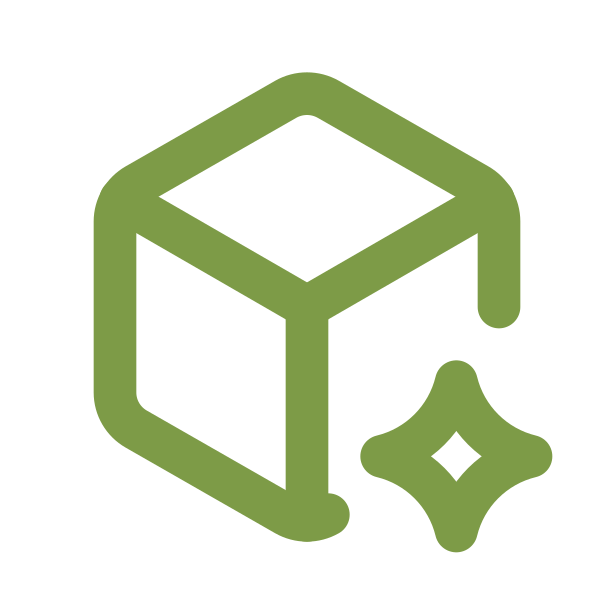
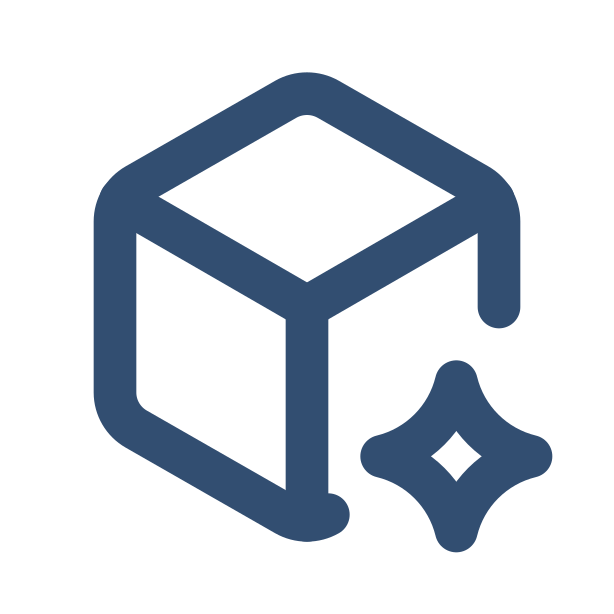
sync@20260403.1717

Changed region(s): [[0.1238, 0.0928, 0.8664, 0.8974], [0.5879, 0.5879, 0.8974, 0.8974]]

diff --git a/src/theme/customTheme.ts b/src/theme/customTheme.ts
@@ -94,7 +94,7 @@ const customs: Record<string, CustomThemeConfig> = {
           color: '#D9D9D9',
           active: {
             color: '#ffffff',
-            background: '#7d9b47',
+            background: '#324e71',
           },
           border: backgroundColors.green, // deep brown-gray border
           background: backgroundColors.green, // menu background dark brown
@@ -263,7 +263,7 @@ const customs: Record<string, CustomThemeConfig> = {
       '#5f91c6', // [5]
       '#4a76a9', // [6]
       '#3e618c', // [7]
-      '#7d9b47', // [8]
+      '#324e71', // [8]
       '#273c59', // [9] darkest
     ],
     default: {
@@ -291,14 +291,7 @@ const customs: Record<string, CustomThemeConfig> = {
   },
 }
 
-// const nktu = customs.brown;
-// const nktu = customs.green;
-// const nktu = customs.cyan;
-// const nktu = customs.blue;
-// const nktu = customs.red;
-
 const nktu = customs.green;
-
 
 export const themeConfig: Record<string, CustomThemeConfig> = {
   // cspell:words nktu
@@ -385,7 +378,7 @@ export const themeConfig: Record<string, CustomThemeConfig> = {
       '#5f91c6', // [5]
       '#4a76a9', // [6]
       '#3e618c', // [7]
-      '#7d9b47', // [8]
+      '#324e71', // [8]
       '#273c59', // [9] darkest
     ],
     default: {

diff --git a/index.html b/index.html
@@ -42,7 +42,7 @@
     <link rel="apple-touch-icon" sizes="180x180" href="/apple-touch-icon.png" />
 
     <!-- Safari Pinned Tab -->
-    <link rel="mask-icon" href="/mask-icon.svg" color="#7d9b47" />
+    <link rel="mask-icon" href="/mask-icon.svg" color="#324e71" />
 
     <!-- iOS Splash Screens -->
     <!-- iPhone 14 Pro Max, 15 Plus, 15 Pro Max -->
@@ -110,7 +110,7 @@
     <link rel="manifest" href="/manifest.json" />
 
     <!-- PWA Meta Tags -->
-    <meta name="theme-color" content="#7d9b47" />
+    <meta name="theme-color" content="#324e71" />
     <meta name="apple-mobile-web-app-capable" content="yes" />
     <meta name="apple-mobile-web-app-status-bar-style" content="default" />
     <meta name="apple-mobile-web-app-title" content="CMngt" />

diff --git a/scripts/generate-theme-assets.js b/scripts/generate-theme-assets.js
@@ -21,7 +21,7 @@ dotenv.config({ path: join(rootDir, '.env.local') });
 dotenv.config({ path: join(rootDir, '.env') });
 
 // Get theme color from environment or use default
-const THEME_COLOR_HEX = process.env.VITE_APP_THEME_COLOR || '7d9b47';
+const THEME_COLOR_HEX = process.env.VITE_APP_THEME_COLOR || '324e71';
 const THEME_COLOR = `#${THEME_COLOR_HEX}`;
 
 // Get app branding from environment
@@ -48,7 +48,7 @@ function hexToRgb(hex) {
         g: parseInt(result[2], 16),
         b: parseInt(result[3], 16),
       }
-    : { r: 50, g: 78, b: 113 }; // Default to #7d9b47
+    : { r: 50, g: 78, b: 113 }; // Default to #324e71
 }
 
 /**

diff --git a/vite.config.ts b/vite.config.ts
@@ -59,8 +59,8 @@ export default defineConfig({
         name: `${APP_NAME} App`,
         short_name: APP_SHORT_NAME,
         description: APP_DESCRIPTION,
-        theme_color: '#7d9b47',
-        background_color: '#ffffff',
+        theme_color: '#324e71',
+        background_color: '#324e71',
         display: 'standalone',
         orientation: 'portrait',
         scope: '/',

diff --git a/src/utils/purchaseOrder.ts b/src/utils/purchaseOrder.ts
@@ -4,7 +4,11 @@ import type { POStatusHistory, PurchaseOrder } from '@/lib/api/schemas/sales.sch
  * Check if a Purchase Order is editable (only NEW status can be edited)
  */
 export function isPOEditable(po: Pick<PurchaseOrder, 'status'>): boolean {
-  return po.status === 'NEW';
+  return [
+    'NEW',
+    'CONFIRMED',
+    'PROCESSING',
+  ].includes(po.status);
 }
 
 /**

diff --git a/scripts/generate-pwa-assets.js b/scripts/generate-pwa-assets.js
@@ -8,7 +8,7 @@ const rootDir = join(__dirname, '..');
 const publicDir = join(rootDir, 'public');
 
 // Theme color from the app configuration
-const THEME_COLOR = `#${process.env.VITE_APP_THEME_COLOR || '7d9b47'}`;
+const THEME_COLOR = `#${process.env.VITE_APP_THEME_COLOR || '324e71'}`;
 
 // Ensure public directory exists
 if (!existsSync(publicDir)) {

diff --git a/scripts/generate-manifest.js b/scripts/generate-manifest.js
@@ -24,8 +24,8 @@ const manifest = {
   start_url: '/',
   display: 'standalone',
   orientation: 'portrait',
-  theme_color: '#7d9b47',
-  background_color: '#7d9b47',
+  theme_color: '#324e71',
+  background_color: '#324e71',
   icons: [
     {
       src: '/favicon-16x16.png',

diff --git a/scripts/generate-offline-html.js b/scripts/generate-offline-html.js
@@ -37,7 +37,7 @@ const offlineHtml = `<!DOCTYPE html>
             padding: 2rem;
         }
         h1 {
-            color: #7d9b47;
+            color: #324e71;
             font-size: 2rem;
             margin-bottom: 1rem;
         }

diff --git a/public/offline.html b/public/offline.html
@@ -20,7 +20,7 @@
             padding: 2rem;
         }
         h1 {
-            color: #7d9b47;
+            color: #324e71;
             font-size: 2rem;
             margin-bottom: 1rem;
         }
